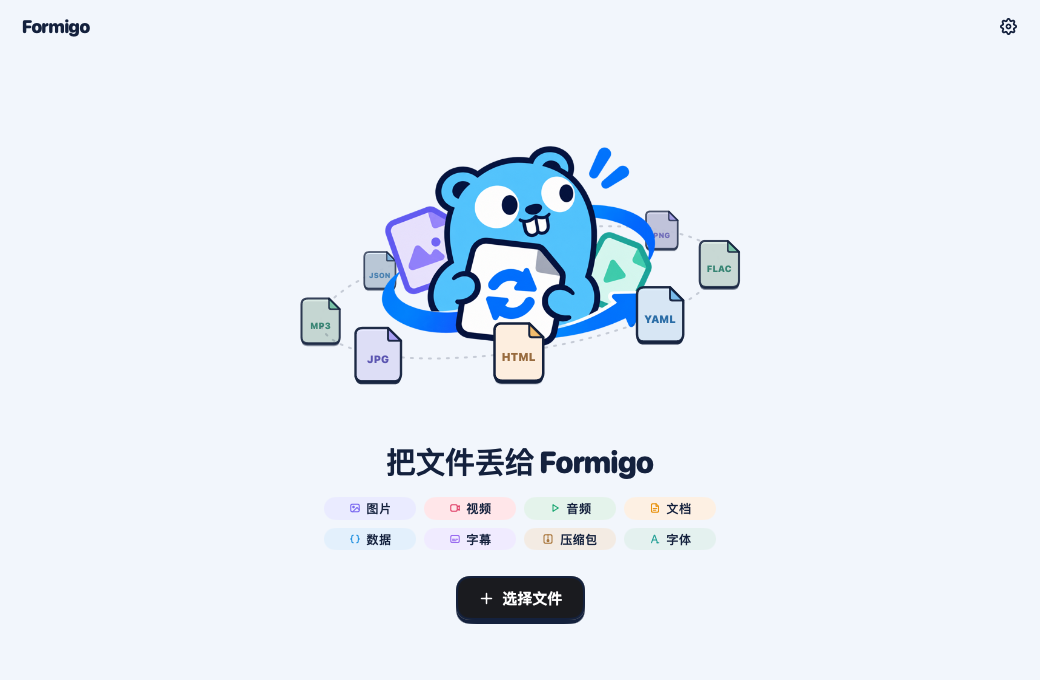
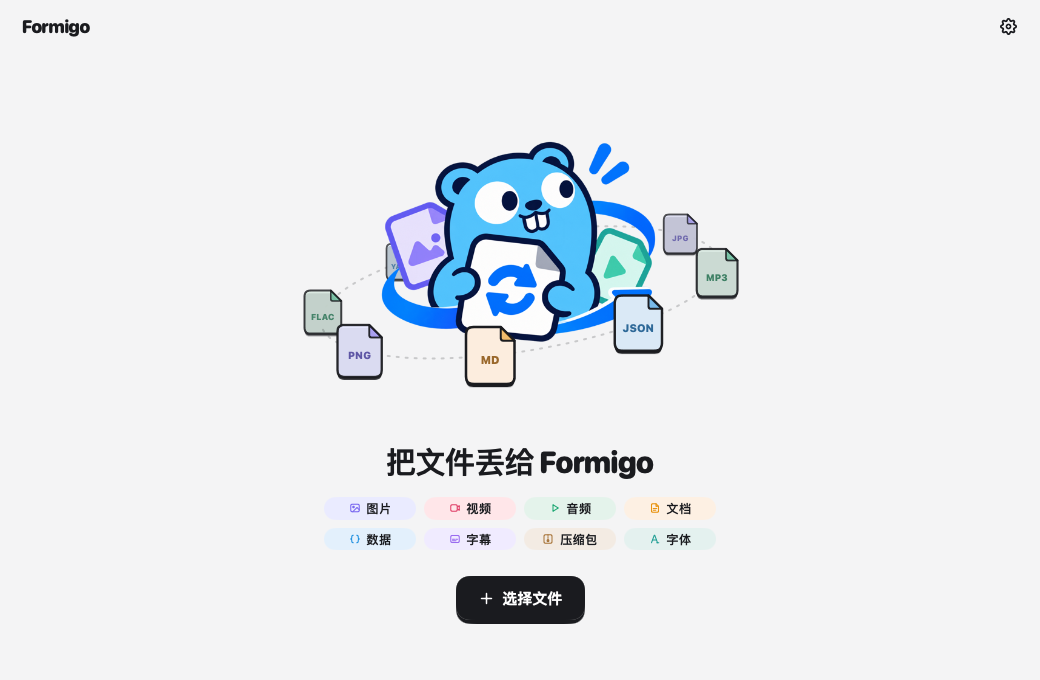
Formigo 0.4.0
Themes now color the whole window, not only the accent: page and card fills, sticker edges, hard shadows and ink follow the chosen theme on desktop, Android and iOS.

diff --git a/android/app/src/main/java/dev/formigo/app/ui/Theme.kt b/android/app/src/main/java/dev/formigo/app/ui/Theme.kt
@@ -65,14 +65,48 @@ data class Palette(
     fun hueInk(k: Kind): Color = lerp(hue(k), outline, if (dark) 0.0f else 0.25f)
 }
 
-data class Accent(val id: String, val name: String, val light: Color, val dark: Color)
-
-val accents = listOf(
-    Accent("mint", "薄荷", Color(0xFF11996A), Color(0xFF3CCF9E)),
-    Accent("orange", "暖橘", Color(0xFFE2681C), Color(0xFFFF9447)),
-    Accent("sky", "地鼠天蓝", Color(0xFF1F7FE0), Color(0xFF5CB9F7)),
-    Accent("neutral", "中性白", Color(0xFF1A1B1F), Color(0xFFECECEE)),
+/**
+ * What a theme tints beyond its main color. In the light appearance: the page,
+ * raised and highlighted fills, and the deep ink of text, sticker edges and
+ * their hard shadows. In the dark one: the page and the surfaces on it, faintly.
+ */
+data class Tones(
+    val bg: Long, val panel: Long = 0, val surface: Long = 0, val raised: Long, val tint: Long,
+    val ink: Long = 0, val muted: Long = 0, val faint: Long = 0,
 )
+
+/** A theme: a main color, flat as the icon's, and the tones it gives the rest of the app. */
+data class Accent(val id: String, val name: String, val light: Color, val dark: Color, val day: Tones, val night: Tones)
+
+// The same table is in the desktop's settings.go and iOS's Theme.swift.
+val accents = listOf(
+    Accent("mint", "薄荷", Color(0xFF11996A), Color(0xFF3CCF9E),
+        Tones(bg = 0xFFF0F7F3, raised = 0xFFE5F4EC, tint = 0xFFDBF0E5, ink = 0xFF0B3626, muted = 0xFF4F6B5F, faint = 0xFF86A094),
+        Tones(bg = 0xFF101614, panel = 0xFF151C19, surface = 0xFF19211E, raised = 0xFF212B27, tint = 0xFF1C3129)),
+    Accent("orange", "暖橘", Color(0xFFE2681C), Color(0xFFFF9447),
+        Tones(bg = 0xFFFBF5F0, raised = 0xFFFCEBDF, tint = 0xFFFBE2D0, ink = 0xFF3D1D0A, muted = 0xFF7A5C4A, faint = 0xFFAB9283),
+        Tones(bg = 0xFF161210, panel = 0xFF1C1714, surface = 0xFF211B17, raised = 0xFF2B231E, tint = 0xFF382619)),
+    Accent("sky", "地鼠天蓝", Color(0xFF1F7FE0), Color(0xFF5CB9F7),
+        Tones(bg = 0xFFF2F6FC, raised = 0xFFE9F3FE, tint = 0xFFE3F2FE, ink = 0xFF14213D, muted = 0xFF56627E, faint = 0xFF8E99B2),
+        Tones(bg = 0xFF10141A, panel = 0xFF151A21, surface = 0xFF192027, raised = 0xFF212933, tint = 0xFF1C2C3B)),
+    Accent("neutral", "中性黑白", Color(0xFF1A1B1F), Color(0xFFECECEE),
+        Tones(bg = 0xFFF4F4F5, raised = 0xFFEDEDEE, tint = 0xFFE7E7E9, ink = 0xFF1A1B1F, muted = 0xFF5F6168, faint = 0xFF95979E),
+        Tones(bg = 0xFF111214, panel = 0xFF16171A, surface = 0xFF1A1B1F, raised = 0xFF222328, tint = 0xFF24262B)),
+)
+
+/** A palette in a theme's tones. */
+private fun Palette.themed(a: Accent): Palette = if (dark) {
+    val t = a.night
+    copy(bg = Color(t.bg), panel = Color(t.panel), surface = Color(t.surface), raised = Color(t.raised), skyTint = Color(t.tint))
+} else {
+    val t = a.day
+    val ink = Color(t.ink)
+    copy(
+        bg = Color(t.bg), raised = Color(t.raised), skyTint = Color(t.tint),
+        outline = ink, ink = ink, muted = Color(t.muted), faint = Color(t.faint),
+        line = ink.copy(alpha = 0.11f), lineStrong = ink.copy(alpha = 0.2f),
+    )
+}
 
 /** The accent a new install starts with, and what unknown or retired ids fall back to. */
 const val DEFAULT_ACCENT = "neutral"
@@ -96,14 +130,15 @@ fun palette(dark: Boolean, accentId: String, oled: Boolean = false): Palette {
         accent = Color(0xFF1F6BFF), accentPressed = Color(0xFF1555DC), accentInk = Color.White,
         sky = Color(0xFF5CB9F7), skyTint = Color(0xFFE3F2FE), ok = Color(0xFF5F9E1F), bad = Color(0xFFEF4F5A),
     )
+    val a = accentById(accentId)
+    val tinted = base.themed(a)
     // OLED: the page is black, cards a near black kept apart by thin edges.
-    val base2 = if (dark && oled) base.copy(
+    val base2 = if (dark && oled) tinted.copy(
         oled = true,
         bg = Color.Black, panel = Color(0xFF0B0B0D), surface = Color(0xFF0B0B0D), raised = Color(0xFF16161A),
         line = Color.White.copy(alpha = 0.10f), lineStrong = Color.White.copy(alpha = 0.20f),
         outline = Color.Black, skyTint = Color(0xFF18181C),
-    ) else base
-    val a = accentById(accentId)
+    ) else tinted
     val accent = if (dark) a.dark else a.light
     // White or graphite on the accent, whichever reads better.
     val graphite = Color(0xFF101113)

diff --git a/ios/Formigo/Model/Theme.swift b/ios/Formigo/Model/Theme.swift
@@ -8,18 +8,39 @@ extension Color {
     }
 }
 
-/// A theme the user may choose: one main color over neutral graphite.
+/// What a theme tints beyond its main color. In the light appearance: the
+/// page, raised and highlighted fills, and the deep ink of text, sticker edges
+/// and their hard shadows. In the dark one: the page and the surfaces on it,
+/// faintly.
+struct Tones {
+    var bg: UInt32, panel: UInt32 = 0, surface: UInt32 = 0, raised: UInt32, tint: UInt32
+    var ink: UInt32 = 0, muted: UInt32 = 0, faint: UInt32 = 0
+}
+
+/// A theme the user may choose: a main color, flat as the icon's, and the
+/// tones it gives the rest of the app.
 struct Accent: Identifiable {
     let id: String
     let name: String
     let light: UInt32
     let dark: UInt32
+    let day: Tones
+    let night: Tones
 
+    // The same table is in the desktop's settings.go and Android's Theme.kt.
     static let all = [
-        Accent(id: "mint", name: "薄荷", light: 0x11996A, dark: 0x3CCF9E),
-        Accent(id: "orange", name: "暖橘", light: 0xE2681C, dark: 0xFF9447),
-        Accent(id: "sky", name: "地鼠天蓝", light: 0x1F7FE0, dark: 0x5CB9F7),
-        Accent(id: "neutral", name: "中性白", light: 0x1A1B1F, dark: 0xECECEE),
+        Accent(id: "mint", name: "薄荷", light: 0x11996A, dark: 0x3CCF9E,
+               day: Tones(bg: 0xF0F7F3, raised: 0xE5F4EC, tint: 0xDBF0E5, ink: 0x0B3626, muted: 0x4F6B5F, faint: 0x86A094),
+               night: Tones(bg: 0x101614, panel: 0x151C19, surface: 0x19211E, raised: 0x212B27, tint: 0x1C3129)),
+        Accent(id: "orange", name: "暖橘", light: 0xE2681C, dark: 0xFF9447,
+               day: Tones(bg: 0xFBF5F0, raised: 0xFCEBDF, tint: 0xFBE2D0, ink: 0x3D1D0A, muted: 0x7A5C4A, faint: 0xAB9283),
+               night: Tones(bg: 0x161210, panel: 0x1C1714, surface: 0x211B17, raised: 0x2B231E, tint: 0x382619)),
+        Accent(id: "sky", name: "地鼠天蓝", light: 0x1F7FE0, dark: 0x5CB9F7,
+               day: Tones(bg: 0xF2F6FC, raised: 0xE9F3FE, tint: 0xE3F2FE, ink: 0x14213D, muted: 0x56627E, faint: 0x8E99B2),
+               night: Tones(bg: 0x10141A, panel: 0x151A21, surface: 0x192027, raised: 0x212933, tint: 0x1C2C3B)),
+        Accent(id: "neutral", name: "中性黑白", light: 0x1A1B1F, dark: 0xECECEE,
+               day: Tones(bg: 0xF4F4F5, raised: 0xEDEDEE, tint: 0xE7E7E9, ink: 0x1A1B1F, muted: 0x5F6168, faint: 0x95979E),
+               night: Tones(bg: 0x111214, panel: 0x16171A, surface: 0x1A1B1F, raised: 0x222328, tint: 0x24262B)),
     ]
 
     static let defaultID = "neutral"
@@ -66,6 +87,12 @@ struct Palette {
                         accent: Color(hex: accent.dark), accentInk: Accent.ink(on: accent.dark),
                         sky: Color(hex: 0x5CB9F7), skyTint: Color(hex: 0x24262B),
                         ok: Color(hex: 0xA3D65C), bad: Color(hex: 0xFF6B74))
+            let t = accent.night
+            p.bg = Color(hex: t.bg)
+            p.panel = Color(hex: t.panel)
+            p.surface = Color(hex: t.surface)
+            p.raised = Color(hex: t.raised)
+            p.skyTint = Color(hex: t.tint)
             if oled {
                 // Pure black for OLED panels; cards a very deep grey so they still read.
                 p.bg = .black
@@ -85,6 +112,16 @@ struct Palette {
                         accent: Color(hex: accent.light), accentInk: Accent.ink(on: accent.light),
                         sky: Color(hex: 0x5CB9F7), skyTint: Color(hex: 0xE3F2FE),
                         ok: Color(hex: 0x5F9E1F), bad: Color(hex: 0xEF4F5A))
+            let t = accent.day
+            p.bg = Color(hex: t.bg)
+            p.raised = Color(hex: t.raised)
+            p.skyTint = Color(hex: t.tint)
+            p.outline = Color(hex: t.ink)
+            p.ink = Color(hex: t.ink)
+            p.muted = Color(hex: t.muted)
+            p.faint = Color(hex: t.faint)
+            p.line = Color(hex: t.ink, alpha: 0.11)
+            p.lineStrong = Color(hex: t.ink, alpha: 0.2)
         }
         return p
     }

diff --git a/android/app/src/test/java/dev/formigo/app/ThemeTest.kt b/android/app/src/test/java/dev/formigo/app/ThemeTest.kt
@@ -3,6 +3,9 @@ package dev.formigo.app
 import dev.formigo.app.ui.DEFAULT_ACCENT
 import dev.formigo.app.ui.accentById
 import dev.formigo.app.ui.accents
+import dev.formigo.app.ui.palette
+import androidx.compose.ui.graphics.Color
+import org.junit.Assert.assertNotEquals
 import org.junit.Assert.assertEquals
 import org.junit.Test
 
@@ -19,5 +22,22 @@ class ThemeTest {
     fun chosenAccentsStayAndOrderHolds() {
         assertEquals(listOf("mint", "orange", "sky", "neutral"), accents.map { it.id })
         for (a in accents) assertEquals(a.id, accentById(a.id).id)
+    }
+
+    @Test
+    fun themesTintTheWholeAppNotOnlyTheAccent() {
+        for (a in accents) {
+            val light = palette(dark = false, accentId = a.id)
+            assertEquals(a.light, light.accent)
+            assertEquals(Color(a.day.bg), light.bg)
+            assertEquals(Color(a.day.ink), light.outline)
+            assertEquals(light.outline, light.ink)
+            val dark = palette(dark = true, accentId = a.id)
+            assertEquals(Color(a.night.bg), dark.bg)
+            assertEquals(Color(a.night.surface), dark.surface)
+            assertEquals(Color.Black, palette(dark = true, accentId = a.id, oled = true).bg)
+        }
+        assertNotEquals(palette(false, "mint").outline, palette(false, "orange").outline)
+        assertEquals("中性黑白", accentById("neutral").name)
     }
 }

diff --git a/ios/FormigoTests/FormigoTests.swift b/ios/FormigoTests/FormigoTests.swift
@@ -1,6 +1,7 @@
 import AVFoundation
 import ImageIO
 import PDFKit
+import SwiftUI
 import UIKit
 import XCTest
 @testable import Formigo
@@ -360,6 +361,22 @@ final class ThemeTests: XCTestCase {
         XCTAssertEqual(Accent.by("").id, "neutral")
         XCTAssertEqual(Accent.by("orange").id, "orange")
         XCTAssertEqual(Accent.all.map(\.id), ["mint", "orange", "sky", "neutral"])
+        XCTAssertEqual(Accent.by("neutral").name, "中性黑白")
+    }
+
+    /// A theme tints the whole app, not only its accent: in the light, the
+    /// page and the ink of text and sticker edges; in the dark, the surfaces.
+    func testThemesTintTheWholeApp() {
+        for a in Accent.all {
+            let light = Palette.make(dark: false, oled: false, accent: a)
+            XCTAssertEqual(light.bg, Color(hex: a.day.bg), a.id)
+            XCTAssertEqual(light.outline, Color(hex: a.day.ink), a.id)
+            XCTAssertEqual(light.ink, Color(hex: a.day.ink), a.id)
+            let dark = Palette.make(dark: true, oled: false, accent: a)
+            XCTAssertEqual(dark.bg, Color(hex: a.night.bg), a.id)
+            XCTAssertEqual(dark.surface, Color(hex: a.night.surface), a.id)
+            XCTAssertEqual(Palette.make(dark: true, oled: true, accent: a).bg, Color.black, a.id)
+        }
     }
 }
 

diff --git a/settings.go b/settings.go
@@ -37,17 +37,37 @@ type settings struct {
 	Reveal bool   `json:"reveal"` // the folder shows once a run is done
 }
 
-// accent is a color the user may choose for the app, flat as the icon's.
+// accent is a theme the user may choose for the app: a main color, flat as
+// the icon's, and the tones it gives the rest of the window.
 type accent struct {
 	id, name    string
 	light, dark ui.Color
+	day, night  tones
 }
 
+// tones are what a theme tints beyond its main color. In the light
+// appearance: the page, raised and highlighted fills, and the deep ink of
+// text, sticker edges and their hard shadows. In the dark one: the page and
+// the surfaces on it, faintly.
+type tones struct {
+	bg, panel, surface, raised, tint string
+	ink, muted, faint                string // light appearance only
+}
+
+// The same table is in Android's Theme.kt and iOS's Theme.swift.
 var accents = []accent{
-	{"mint", "薄荷", ui.Hex("#11996a"), ui.Hex("#3ccf9e")},
-	{"orange", "暖橘", ui.Hex("#e2681c"), ui.Hex("#ff9447")},
-	{"sky", "地鼠天蓝", ui.Hex("#1f7fe0"), ui.Hex("#5cb9f7")},
-	{"neutral", "中性白", ui.Hex("#1a1b1f"), ui.Hex("#ececee")},
+	{"mint", "薄荷", ui.Hex("#11996a"), ui.Hex("#3ccf9e"),
+		tones{bg: "#f0f7f3", raised: "#e5f4ec", tint: "#dbf0e5", ink: "#0b3626", muted: "#4f6b5f", faint: "#86a094"},
+		tones{bg: "#101614", panel: "#151c19", surface: "#19211e", raised: "#212b27", tint: "#1c3129"}},
+	{"orange", "暖橘", ui.Hex("#e2681c"), ui.Hex("#ff9447"),
+		tones{bg: "#fbf5f0", raised: "#fcebdf", tint: "#fbe2d0", ink: "#3d1d0a", muted: "#7a5c4a", faint: "#ab9283"},
+		tones{bg: "#161210", panel: "#1c1714", surface: "#211b17", raised: "#2b231e", tint: "#382619"}},
+	{"sky", "地鼠天蓝", ui.Hex("#1f7fe0"), ui.Hex("#5cb9f7"),
+		tones{bg: "#f2f6fc", raised: "#e9f3fe", tint: "#e3f2fe", ink: "#14213d", muted: "#56627e", faint: "#8e99b2"},
+		tones{bg: "#10141a", panel: "#151a21", surface: "#192027", raised: "#212933", tint: "#1c2c3b"}},
+	{"neutral", "中性黑白", ui.Hex("#1a1b1f"), ui.Hex("#ececee"),
+		tones{bg: "#f4f4f5", raised: "#ededee", tint: "#e7e7e9", ink: "#1a1b1f", muted: "#5f6168", faint: "#95979e"},
+		tones{bg: "#111214", panel: "#16171a", surface: "#1a1b1f", raised: "#222328", tint: "#24262b"}},
 }
 
 func accentByID(id string) accent {
@@ -191,11 +211,11 @@ func (a *formigo) dark(c *ui.Context) bool {
 func (a *formigo) palette(c *ui.Context) palette {
 	dark := a.dark(c)
 	a.darkNow = dark
-	p := paletteFor(dark)
+	ac := accentByID(a.prefs.Accent)
+	p := themed(paletteFor(dark), ac, dark)
 	if dark && a.prefs.OLED {
 		p = oled(p)
 	}
-	ac := accentByID(a.prefs.Accent)
 	p.accent = ac.light
 	if dark {
 		p.accent = ac.dark
@@ -207,6 +227,21 @@ func (a *formigo) palette(c *ui.Context) palette {
 	if contrast(p.accent, navy) > contrast(p.accent, p.accentInk) {
 		p.accentInk = navy
 	}
+	return p
+}
+
+// themed gives a palette its theme's tones.
+func themed(p palette, ac accent, dark bool) palette {
+	if dark {
+		t := ac.night
+		p.bg, p.panel, p.surface, p.raised = ui.Hex(t.bg), ui.Hex(t.panel), ui.Hex(t.surface), ui.Hex(t.raised)
+		p.skyTint = ui.Hex(t.tint)
+		return p
+	}
+	t := ac.day
+	p.bg, p.raised, p.skyTint = ui.Hex(t.bg), ui.Hex(t.raised), ui.Hex(t.tint)
+	p.outline, p.ink, p.muted, p.faint = ui.Hex(t.ink), ui.Hex(t.ink), ui.Hex(t.muted), ui.Hex(t.faint)
+	p.line, p.lineStrong = p.ink.Alpha(0.11), p.ink.Alpha(0.2)
 	return p
 }
 

diff --git a/settings_test.go b/settings_test.go
@@ -207,8 +207,9 @@ func TestOLED(t *testing.T) {
 	shot(t, m.tt, "02b-queue-oled")
 }
 
-// TestThemes: each theme, chosen in the settings, colors the dark window,
-// on graphite rather than navy.
+// TestThemes: each theme, chosen in the settings, colors the whole window,
+// not only its accent: in the dark, the page takes a faint tint of it; in the
+// light, the page and the ink of text and sticker edges do.
 func TestThemes(t *testing.T) {
 	_, files := samples(t)
 	for _, ac := range accents {
@@ -226,9 +227,15 @@ func TestThemes(t *testing.T) {
 		shot(t, tt, "30-theme-"+ac.id+"-settings")
 		var p palette
 		ui.NewTester(func(c *ui.Context) { p = a.palette(c) }, 10, 10).Frame()
-		if p.accent != ac.dark || p.bg != ui.Hex("#111214") {
+		if p.accent != ac.dark || p.bg != ui.Hex(ac.night.bg) {
 			t.Errorf("%s: accent %v, background %v", ac.id, p.accent, p.bg)
 		}
+		a.prefs.Appearance = "light"
+		ui.NewTester(func(c *ui.Context) { p = a.palette(c) }, 10, 10).Frame()
+		if p.accent != ac.light || p.bg != ui.Hex(ac.day.bg) || p.outline != ui.Hex(ac.day.ink) || p.ink != p.outline {
+			t.Errorf("%s light: accent %v, background %v, outline %v, ink %v", ac.id, p.accent, p.bg, p.outline, p.ink)
+		}
+		a.prefs.Appearance = "dark"
 		m := newPumped(t, 1040, 680)
 		m.a.prefs = a.prefs
 		m.a.add(files[:3])

diff --git a/CHANGELOG.md b/CHANGELOG.md
@@ -1,5 +1,12 @@
 # Changelog
 
+## 0.4.0
+
+### 🎨 界面 / Design
+
+- 主题从「只换强调色」扩展到整个界面：浅色下页面底色、卡片与高亮底色、贴纸描边、硬投影和文字都随主题染色（薄荷是深绿、暖橘是深棕、地鼠天蓝是海军蓝、中性黑白是石墨黑）；深色下页面和卡片带一点主题色。三端同步 / A theme now colors the whole window, not only its accent: in the light, the page, card and highlight fills, sticker edges, hard shadows and text take its tones (deep green for mint, deep brown for orange, navy for sky, graphite for neutral); in the dark, the page and cards take a faint tint of it. On every platform
+- 「中性白」改名为「中性黑白」，与它黑色的强调色一致；页面底色改为不带蓝调的中性灰 / “中性白” is renamed “中性黑白” to match its black accent, and its page is a plain neutral grey rather than a bluish one
+
 ## 0.3.0
 
 首个公开版本：桌面端支持约 80 种格式互转，Android 与 iOS 改为纯原生应用，三端统一换上四套主题和 OLED 纯黑模式。/ The first public release: the desktop app converts between some 80 formats, Android and iOS become fully native apps, and every platform gets four themes and a pure-black OLED mode.

diff --git a/README.md b/README.md
@@ -66,7 +66,7 @@
 
 ### 外观
 
-- 四套主题：中性白（默认）、薄荷、暖橘、地鼠天蓝
+- 四套主题：中性黑白（默认）、薄荷、暖橘、地鼠天蓝；主题不只换按钮颜色，页面底色、卡片、描边、投影和文字都跟着染色
 - 浅色、深色和 OLED 纯黑模式
 - 会动的小地鼠：文件绕着它转，点一下它会跳；动画可在设置里调成「安静」或关闭
 
@@ -80,7 +80,7 @@
 <p align="center">
   <img src="docs/screenshots/android-home.png" width="19%" alt="Android 首页，深色">
   <img src="docs/screenshots/android-light.png" width="19%" alt="Android 首页，浅色">
-  <img src="docs/screenshots/ios-home.png" width="19%" alt="iOS 首页，中性白主题">
+  <img src="docs/screenshots/ios-home.png" width="19%" alt="iOS 首页，中性黑白主题">
   <img src="docs/screenshots/ios-orange.png" width="19%" alt="iOS 首页，暖橘主题">
   <img src="docs/screenshots/ios-settings.png" width="19%" alt="iOS 设置页">
 </p>
